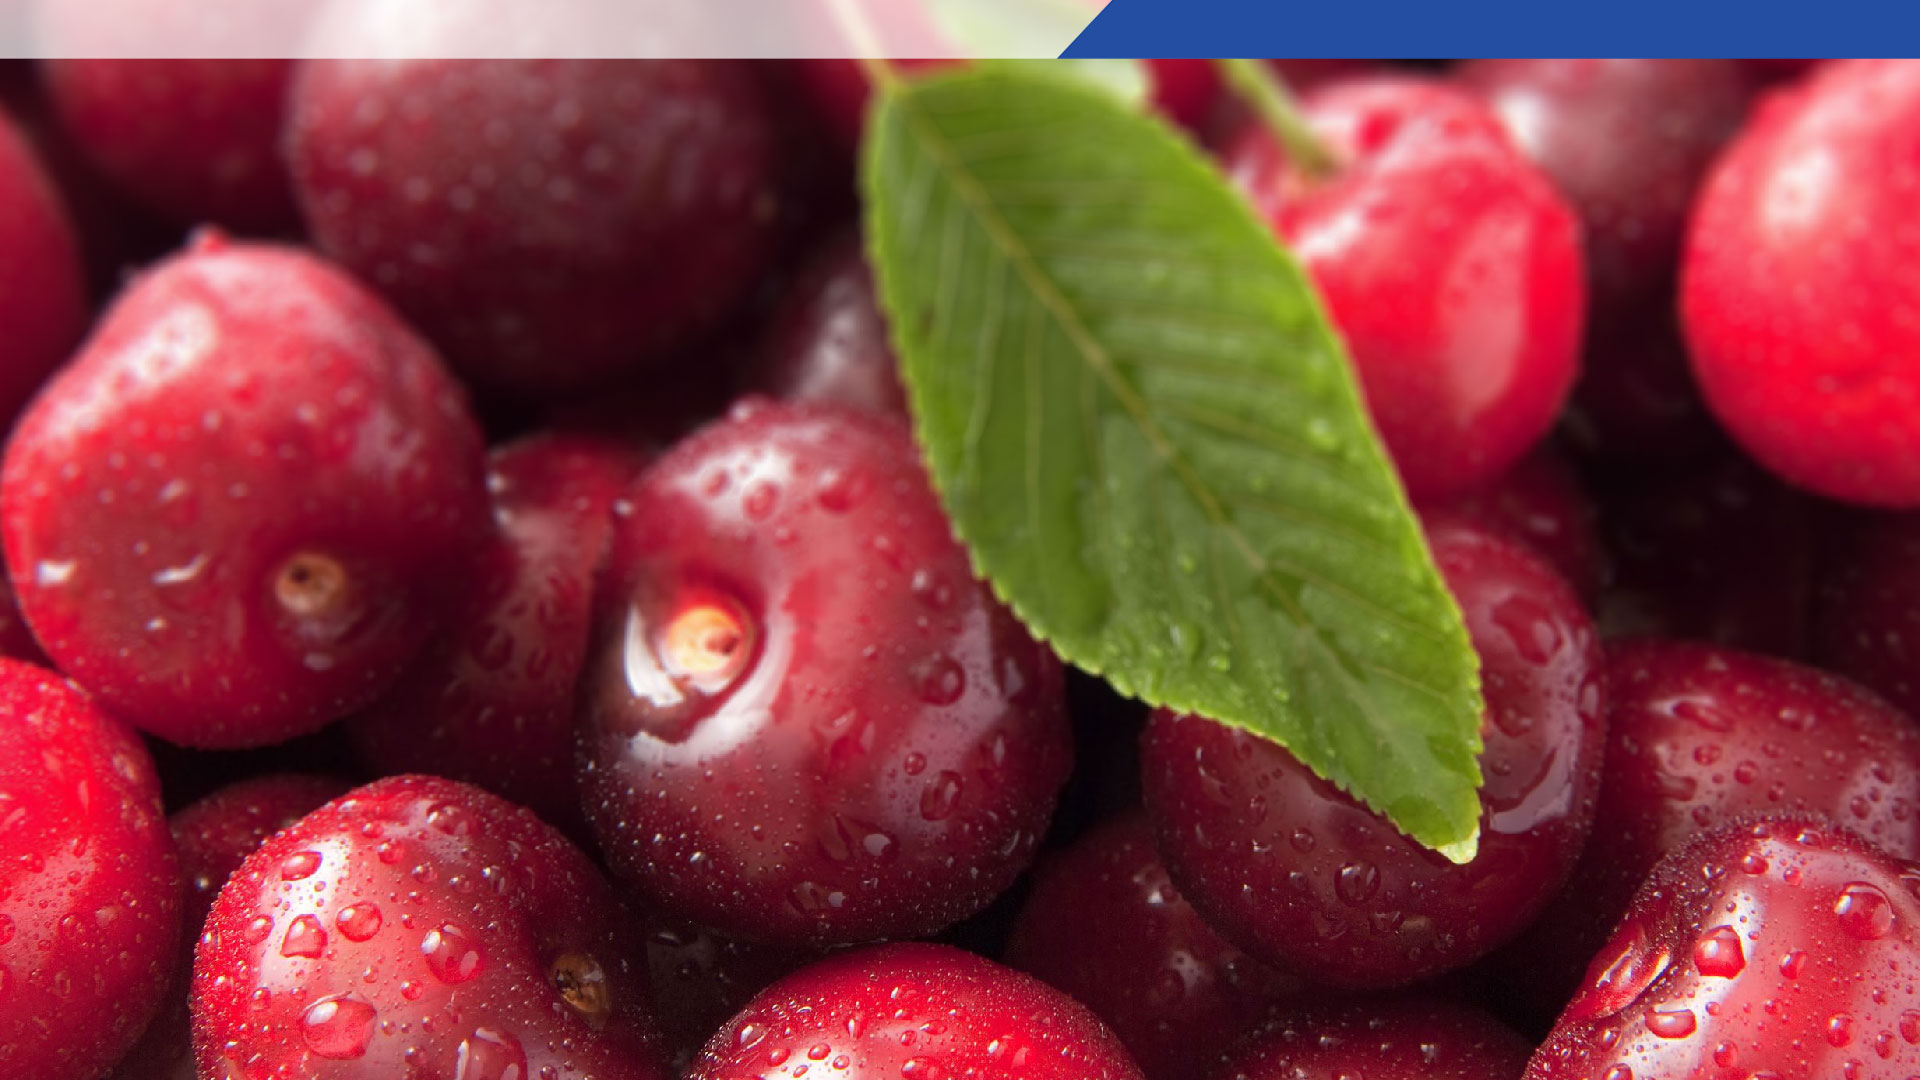
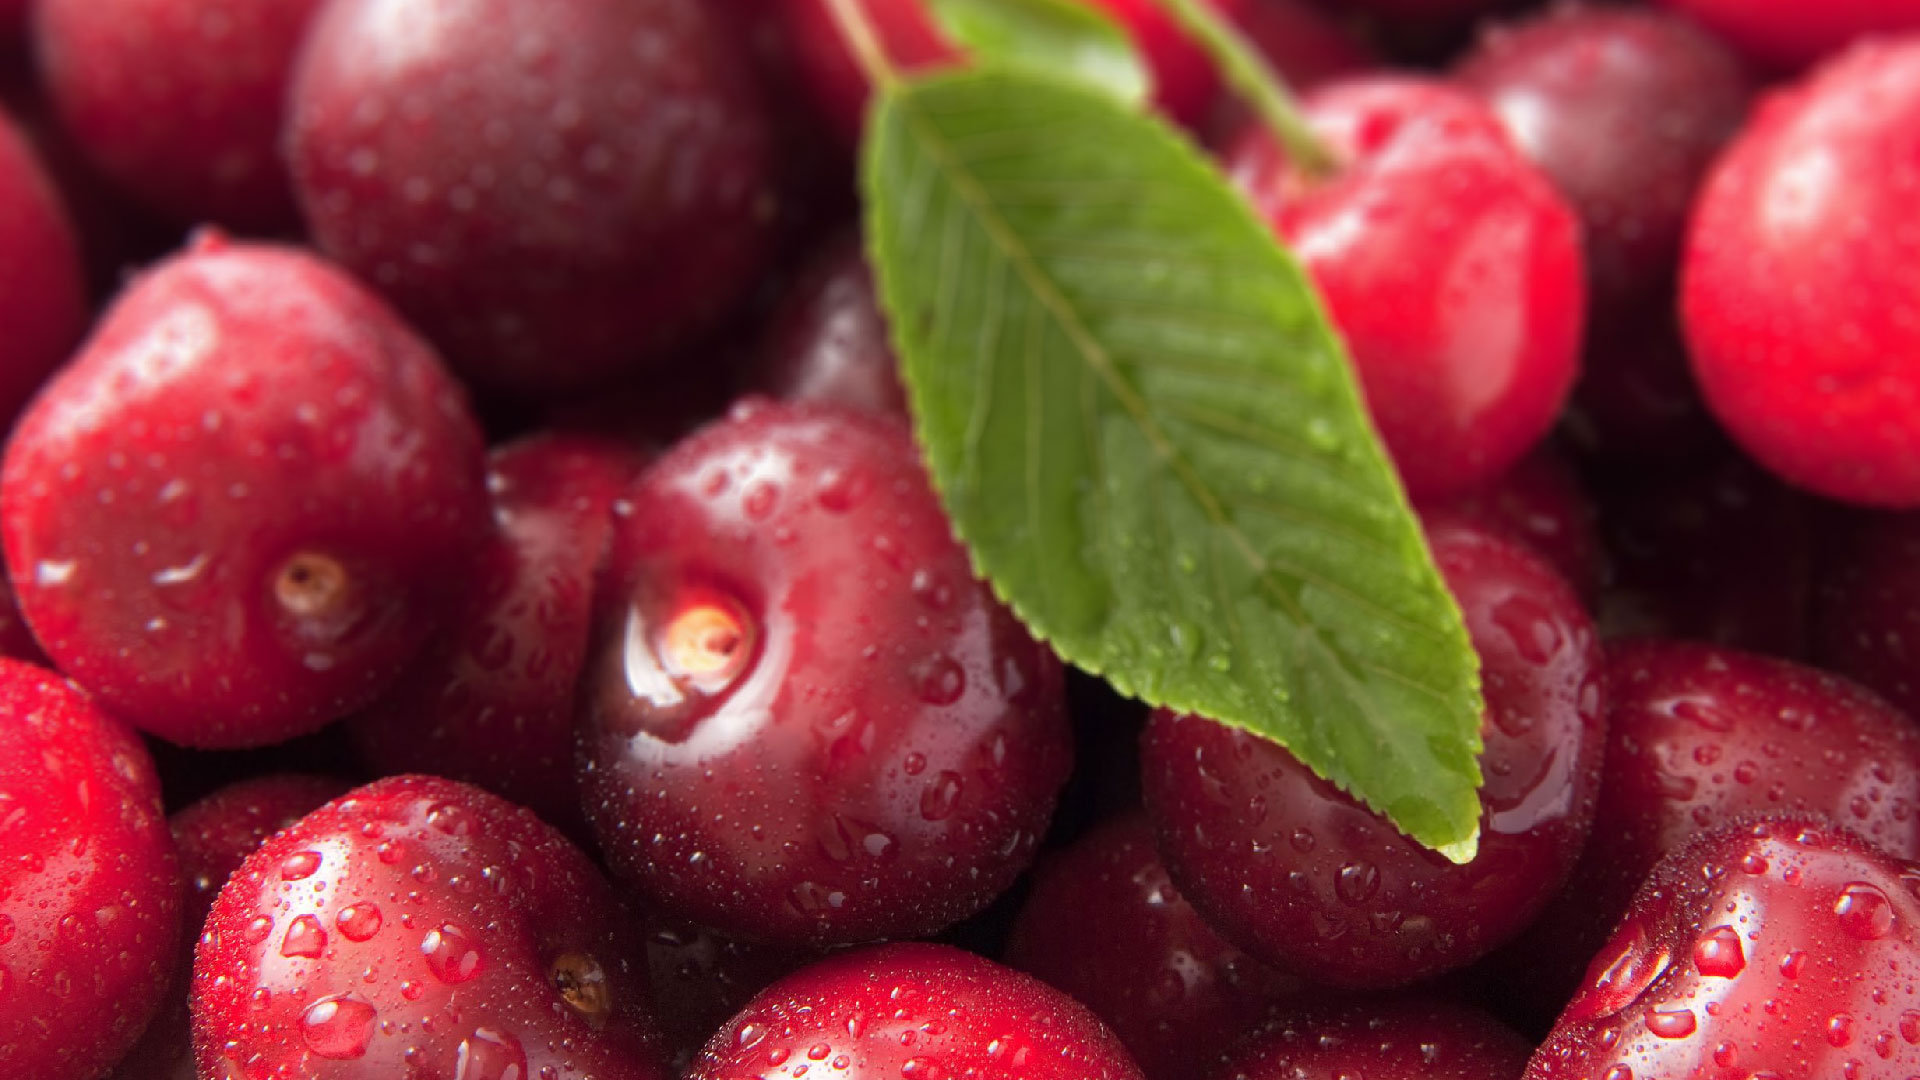
Header fix
Header fix

Changed region(s): [[0.0, 0.0, 1.0, 0.0611]]

diff --git a/public/css/style.css b/public/css/style.css
@@ -61,7 +61,6 @@ li {
 .nopadding {
 	padding: 0 !important;
 }
-
 .header {
 	background: none;
 	color: #fff;
@@ -69,9 +68,35 @@ li {
 	font-weight: bold;
 	margin-bottom: 0;
 	padding: 0% 0;
-	height: 5%;
-	position: absolute;
+	height: 6%;
+	position: relative;
 	width: 100%;
+	display:block;
+	background: url("../img/header-bg.png");
+	background-repeat: no-repeat;
+	background-position: center;
+	position: absolute;
+}
+.header .header-logo {
+	width:60%;
+	display: inline-block;
+	position: absolute;
+	left:0;
+	height: 100%;
+	padding: 0.5% 0 0 9%;
+}
+.header-logo img {
+	vertical-align: middle;
+	width: 37%;
+}
+.headermenu {
+	width: 40%;
+	display: inline-block;
+	position: absolute;
+	right: 0;
+	height: 100%;
+	padding: 0.6%;
+	/* line-height: 304%; */
 }
 .header a {
 	font-family: "Raleway", sans-serif;
@@ -132,11 +157,11 @@ a.fa:hover {
 	z-index: -1;
 }
 .frontbutton-wrap {
-width: 88%;
-height: 90%;
-margin-top: 3%;
-margin-left: 12%;
-z-index: 99999;
+	width: 88%;
+	height: 90%;
+	margin-top: 3%;
+	margin-left: 12%;
+	z-index: 99999;
 }
 .frontbutton {
 	float: left;
@@ -189,16 +214,16 @@ z-index: 99999;
 }
 
 .news {
-position: absolute;
-width: 33%;
-height: 14%;
-margin-top: -18%;
-margin-left: 13%;
--webkit-transform: skew(-45deg);
--moz-transform: skew(-45deg);
--o-transform: skew(-45deg);
-transform: skew(-45deg);
-background: #eee;
+	position: absolute;
+	width: 33%;
+	height: 14%;
+	margin-top: -18%;
+	margin-left: 13%;
+	-webkit-transform: skew(-45deg);
+	-moz-transform: skew(-45deg);
+	-o-transform: skew(-45deg);
+	transform: skew(-45deg);
+	background: #eee;
 }
 .unskew {
 	-webkit-transform: skew(45deg); 

diff --git a/views/layout/header.php b/views/layout/header.php
@@ -20,11 +20,11 @@ $config["js"] = array('jquery.min','bootstrap','jquery.fancybox','jquery.scrollT
 
 </head>
 <body>
-	<div class="jumbotron header">
-		<div class="col-md-6 col-md-offset-1 headerl">
+	<div class="header">
+		<div class="header-logo">
 			<img src="public/img/logo.png" class="logo">
 		</div>
-		<div class="col-md-5 headermenu">
+		<div class="headermenu">
 			<a href="" <?php if(!isset($_GET["key"]) || $_GET["key"]=="home"){echo "class='current'";} ?>>home</a>
 			<a href="products" <?php if(isset($_GET["key"])){if($_GET["key"]=="products"){echo "class='current'";}} ?>>products</a>
 			<a href="services" <?php if(isset($_GET["key"])){if($_GET["key"]=="services"){echo "class='current'";}} ?>>services</a>
